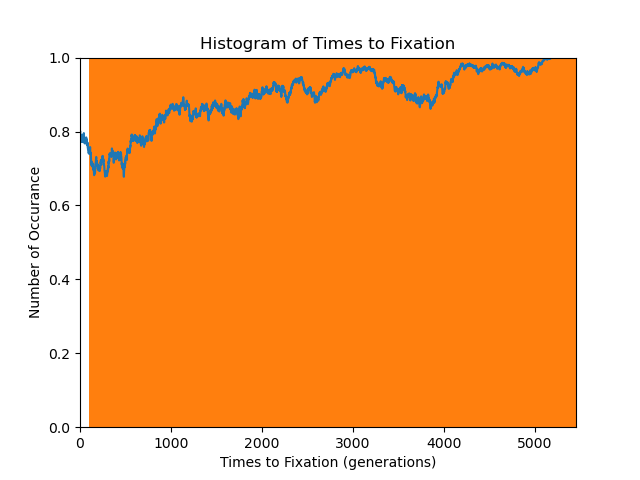
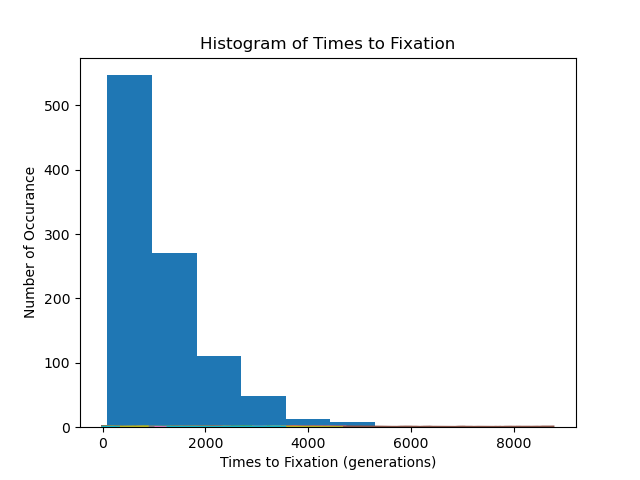
Add resubmission for day 4 assignment

diff --git a/day4-assignment/Wright-Fisher_assignment.py b/day4-assignment/Wright-Fisher_assignment.py
@@ -62,6 +62,25 @@ ax.set_title("Histogram of Times to Fixation")
 fig.savefig( "HistWrightFisher2.png" )
 plt.show()
 '''
+#EXERCISE 2 RESUBMISSION 
+
+timefixation = []
+for i in range(1000):
+	results = wrightfisher(0.3, 500)
+	x_positions = range(0,results[1])
+	y_positions = results[0]
+	ax.plot(x_positions, y_positions)
+	timefixation.append(results[1])
+
+ax.hist(timefixation)
+
+ax.set_xlabel("Times to Fixation (generations)")
+ax.set_ylabel("Number of Occurance")
+ax.set_title("Histogram of Times to Fixation")
+fig.savefig( "HistWrightFisher2.png" )
+plt.show()
+
+
 #Exercise 3
 '''
 avgtimelist = []
@@ -83,6 +102,7 @@ ax.set_ylabel("Average Time to Fixation")
 ax.set_title("The Effect of Population on Time to Fixation")
 fig.savefig( "ChangingPopulation.png" )
 '''
+'''
 avgtimelist = []
 frequency = []
 for i in range(1000):
@@ -103,3 +123,4 @@ ax.set_title("The Effect of Allele Frequency on Time to Fixation")
 fig.savefig( "ChangingFrequency.png" )
 
 plt.show()
+'''
